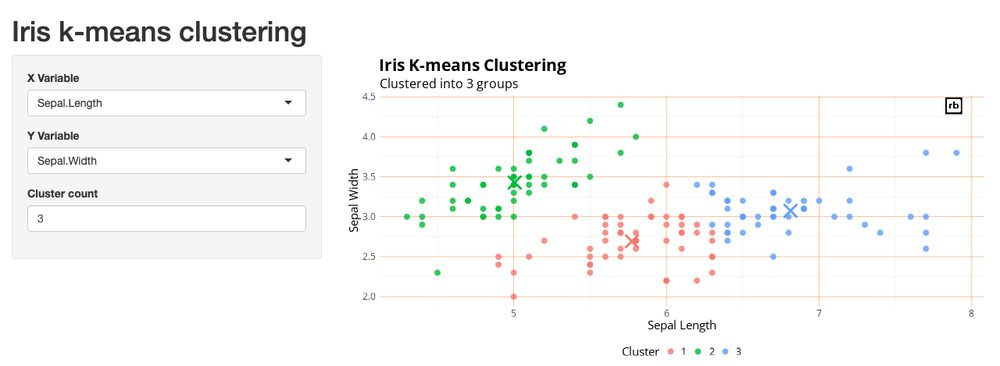
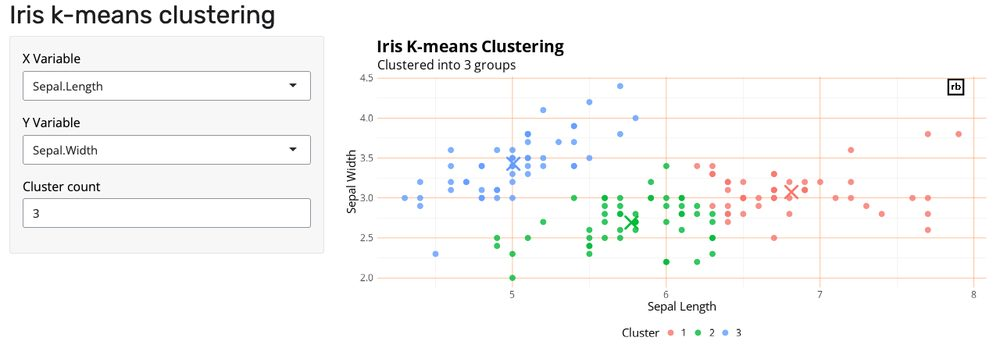
Apply brand theme in shiny_kmeans; add tests for template fixes
- shiny_kmeans: pass the bs_theme(brand = TRUE) to the page (fluidPage +
  sidebarLayout); it was created but never used. Replace deprecated
  aes_string() with the .data pronoun
- New tests (inst/tinytest/test_templates.R): shiny_kmeans renders a
  Bootstrap 5 theme compiled from _brand.yml; shiny_complex's value box uses
  the brand's primary color (skipped if the template's packages are missing)
- test_get_template.R: subdirectories are copied; all template R code parses
- test_ggplot2.R: create the test logo so brand_add_logo() is actually
  exercised, and check that only its height is fixed
- Refresh the shiny_kmeans screenshot

Verified the new tests fail on the pre-fix code and pass now.

diff --git a/NEWS.md b/NEWS.md
@@ -7,6 +7,8 @@
 * `brand_add_logo()` now keeps the logo's aspect ratio; `size` sets its height.
 * `get_template()` now copies template subdirectories (e.g., `shiny_complex/www/`).
 * The `shiny_complex` template no longer errors with hex brand colors in `valueBox()` (newer shinydashboard versions reject them).
+* The `shiny_kmeans` template now applies the `_brand.yml` theme to its UI (it was created but never used) and no longer uses the deprecated `ggplot2::aes_string()`.
+* New tests cover template installation (including subdirectories), the Shiny templates' brand theming, and `brand_add_logo()` (whose test previously never ran because the logo file was not created).
 * Refreshed the screenshots in the Templates vignette to match the current templates.
 
 # rbranding 0.1.0
